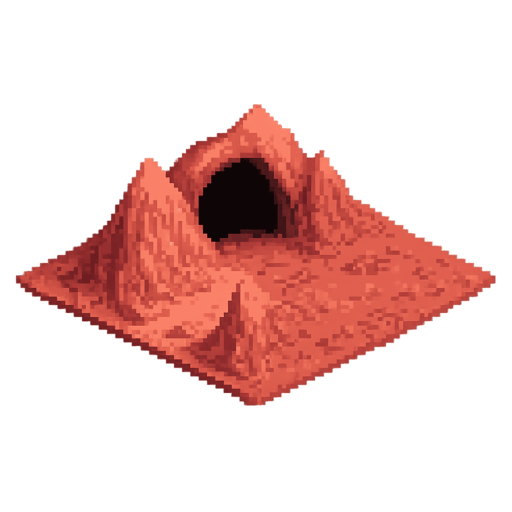
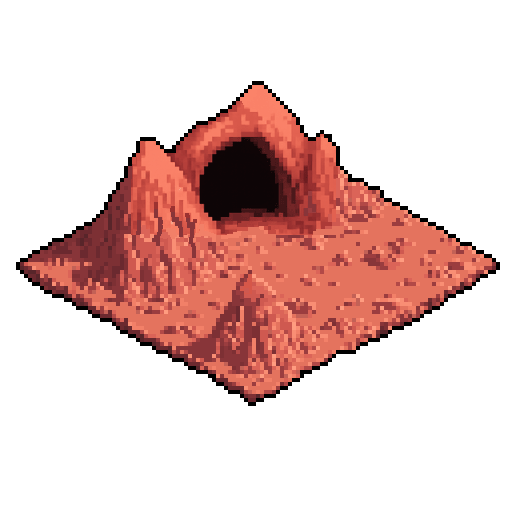
Added variation to basic tiles.

Changed region(s): [[0.0312, 0.1562, 1.0, 0.8125]]

diff --git a/main.py b/main.py
@@ -4,6 +4,7 @@ from character import Character
 from map import Map
 import math
 import time
+import random
 
 # Initialisation
 pygame.init()
@@ -15,16 +16,23 @@ clock = pygame.time.Clock()
 
 # Set initial player and map features
 map_size = 10
-map = Map(map_size, 0)
-
 map_key = {
-    'blank': pygame.image.load("assets/tile_1.png").convert_alpha(),
-    'mountain': pygame.image.load("assets/tile_2.png").convert_alpha(),
-    'cave': pygame.image.load("assets/tile_3.png").convert_alpha(),
-    'ore': pygame.image.load("assets/tile_4.png").convert_alpha()
+    'blank': [
+        pygame.image.load("assets/tile_1.png").convert_alpha(),
+        pygame.image.load("assets/tile_5.png").convert_alpha(),
+        pygame.image.load("assets/tile_7.png").convert_alpha(),
+        pygame.image.load("assets/tile_8.png").convert_alpha()
+    ],
+    'mountain': [
+        pygame.image.load("assets/tile_2.png").convert_alpha(),
+        pygame.image.load("assets/tile_6.png").convert_alpha()
+    ],
+    'cave': [pygame.image.load("assets/tile_3.png").convert_alpha()],
+    'ore': [pygame.image.load("assets/tile_4.png").convert_alpha()]
 }
 
-map.print_map()
+map = Map(map_size, 0, map_key)
+map.display_map()
 
 player_x = WIDTH / 2
 player_y = HEIGHT / 2
@@ -110,8 +118,8 @@ while running:
 
     screen.fill(0)
 
-    map_tile = map.get_tile(player.map_x, player.map_y)
-    screen.blit(map_key[map_tile], (0, 0))
+    tile_image = map.tile_images[(player.map_x, player.map_y)]
+    screen.blit(tile_image, (0, 0))
     screen.blit(player.image, (player.x, player.y))
     screen.blit(hunger_text, (10, 0))
     screen.blit(thirst_text, (10, 20))

diff --git a/map.py b/map.py
@@ -2,9 +2,10 @@ import random
 import math
 
 class Map():
-    def __init__(self, size, seed):
+    def __init__(self, size, seed, map_key):
         # Initialise empty grid
         self.map = [[None for i in range(size)] for i in range(size)]
+        self.tile_images = {}
 
         random.seed(seed)
 
@@ -44,13 +45,20 @@ class Map():
 
                 self.map[y][x] = tile
 
+        for x in range(size):
+            for y in range(size):
+                tile_type = self.get_tile(x, y)
+                random.seed(int(str(x) + str(y)))
+                self.tile_images[(x, y)] = random.choice(map_key[tile_type])
+
+
     def get_tile(self, map_x, map_y):
         return self.map[map_x][map_y]
 
-    def print_map(self):
+    def display_map(self):
         for row in self.map:
             print(' '.join(row))
 
 if __name__ == "__main__":
     map = Map(10, 0)
-    map.print_map()
+    map.display_map()
